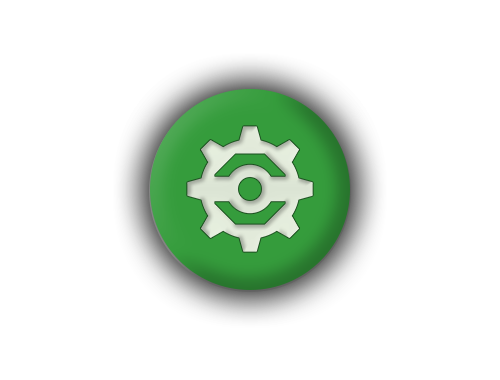
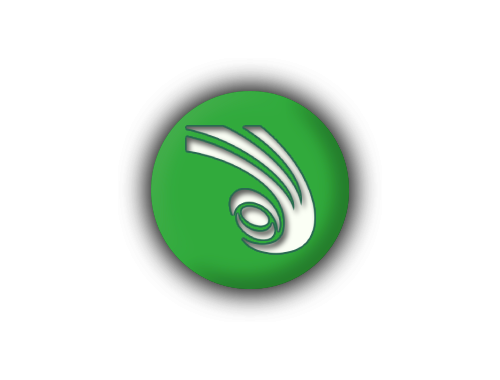
- Strong Punch, Water Dome effect

diff --git a/EatYourBeetSVG/src/main/java/eatyourbeets/resources/common/CommonImages.java b/EatYourBeetSVG/src/main/java/eatyourbeets/resources/common/CommonImages.java
@@ -52,6 +52,7 @@ public class CommonImages
         public final TextureCache Intellect             = new TextureCache("images/eyb/cardui/core/Intellect.png");
         public final TextureCache Force                 = new TextureCache("images/eyb/cardui/core/Force.png");
         public final TextureCache Agility               = new TextureCache("images/eyb/cardui/core/Agility.png");
+        public final TextureCache Willpower             = new TextureCache("images/eyb/cardui/core/Willpower.png");
     }
 
     public static class AffinityIcons
@@ -60,6 +61,7 @@ public class CommonImages
         public final TextureCache Green                 = new TextureCache("images/eyb/cardui/affinities/Green.png", true);
         public final TextureCache Red                   = new TextureCache("images/eyb/cardui/affinities/Red.png", true);
         public final TextureCache Blue                  = new TextureCache("images/eyb/cardui/affinities/Blue.png", true);
+        public final TextureCache Orange                = new TextureCache("images/eyb/cardui/affinities/Orange.png", true);
         public final TextureCache Light                 = new TextureCache("images/eyb/cardui/affinities/Light.png", true);
         public final TextureCache Dark                  = new TextureCache("images/eyb/cardui/affinities/Dark.png", true);
         public final TextureCache Star                  = new TextureCache("images/eyb/cardui/affinities/Star.png", true);
@@ -80,8 +82,13 @@ public class CommonImages
         public final TextureCache Innate                  = new TextureCache("images/eyb/cardui/badges/Innate.png");
         public final TextureCache Delayed                 = new TextureCache("images/eyb/cardui/badges/Delayed.png");
         public final TextureCache Retain                  = new TextureCache("images/eyb/cardui/badges/Retain.png");
-        public final TextureCache RetainOnce              = new TextureCache("images/eyb/cardui/badges/RetainOnce.png");
+        public final TextureCache RetainInfinite          = new TextureCache("images/eyb/cardui/badges/RetainInfinite.png");
         public final TextureCache Haste                   = new TextureCache("images/eyb/cardui/badges/Haste.png");
+        public final TextureCache HasteInfinite           = new TextureCache("images/eyb/cardui/badges/HasteInfinite.png");
+        public final TextureCache Autoplay                = new TextureCache("images/eyb/cardui/badges/Autoplay.png");
+        public final TextureCache Loyal                   = new TextureCache("images/eyb/cardui/badges/Loyal.png");
+        public final TextureCache Afterlife               = new TextureCache("images/eyb/cardui/badges/Afterlife.png");
+        public final TextureCache Harmonic                = new TextureCache("images/eyb/cardui/badges/Harmonic.png");
     }
 
     public static class Tooltips
@@ -94,10 +101,12 @@ public class CommonImages
         public final TextureCache Aether           = new TextureCache("images/eyb/cardui/tooltips/Aether.png");
         public final TextureCache Frost            = new TextureCache("images/eyb/cardui/tooltips/Frost.png");
         public final TextureCache Earth            = new TextureCache("images/eyb/cardui/tooltips/Earth.png");
+        public final TextureCache Water            = new TextureCache("images/eyb/cardui/tooltips/Water.png");
         public final TextureCache RandomOrb        = new TextureCache("images/eyb/cardui/tooltips/RandomOrb.png");
         public final TextureCache Fire             = new TextureCache("images/eyb/cardui/tooltips/Fire.png");
         public final TextureCache Chaos            = new TextureCache("images/eyb/cardui/tooltips/Chaos.png");
         public final TextureCache Gold             = new TextureCache("images/eyb/cardui/tooltips/Gold.png");
+        public final TextureCache Regeneration     = new TextureCache("images/eyb/cardui/tooltips/Regeneration.png");
     }
 
     public static class Events
@@ -154,6 +163,8 @@ public class CommonImages
         public final TextureCache Darkness         = new TextureCache("images/animator/effects/Darkness.png");
         public final TextureCache FireBurst        = new TextureCache("images/animator/effects/FireBurst.png");
         public final TextureCache Psi              = new TextureCache("images/animator/effects/Psi.png");
+        public final TextureCache Punch            = new TextureCache("images/animator/effects/Punch.png");
         public final TextureCache Water            = new TextureCache("images/animator/effects/Water.png");
+        public final TextureCache WaterDome        = new TextureCache("images/animator/effects/WaterDome.png");
     }
 }

diff --git a/EatYourBeetSVG/src/main/java/eatyourbeets/effects/vfx/StrongPunchEffect.java b/EatYourBeetSVG/src/main/java/eatyourbeets/effects/vfx/StrongPunchEffect.java
@@ -1,0 +1,72 @@
+package eatyourbeets.effects.vfx;
+
+import com.badlogic.gdx.graphics.Color;
+import com.badlogic.gdx.graphics.g2d.SpriteBatch;
+import com.badlogic.gdx.math.Interpolation;
+import eatyourbeets.effects.EYBEffect;
+import eatyourbeets.effects.SFX;
+import eatyourbeets.effects.VFX;
+import eatyourbeets.ui.TextureCache;
+import eatyourbeets.utilities.GameEffects;
+
+public class StrongPunchEffect extends EYBEffect
+{
+    public static final TextureCache image = IMAGES.Punch;
+
+    protected float x;
+    protected float y;
+    protected float rotationSpeed = 600f;
+    protected float vfxTimer = 1;
+    protected float baseScale;
+    protected boolean triggered = false;
+
+    public StrongPunchEffect(float x, float y, float baseScale)
+    {
+        super(1f);
+
+        this.x = x;
+        this.y = y;
+        this.scale = this.baseScale = Math.max(baseScale,1);
+        this.rotation = 300f;
+        this.color = Color.WHITE.cpy();
+    }
+
+    @Override
+    protected void UpdateInternal(float deltaTime)
+    {
+
+        if ((1f - duration) < 0.1f)
+        {
+            color.a = Interpolation.fade.apply(0.1f, 1f, (1f - duration) * 7f);
+        }
+        else
+        {
+            color.a = Interpolation.pow2Out.apply(0.1f, 1f, duration);
+        }
+
+        vfxTimer -= deltaTime / duration;
+        if (vfxTimer < 0f)
+        {
+            if (!triggered) {
+                GameEffects.Queue.Add(VFX.Whack(x, y).SetColor(Color.SCARLET)).SetScale(2);
+                SFX.Play(SFX.ANIMATOR_PUNCH,0.7f,0.8f);
+                triggered = true;
+            }
+            else {
+                x += Interpolation.sine.apply(-25f, 25f, this.duration * 50);
+                y += Interpolation.sine.apply(-25f, 25f, this.duration * 50);
+            }
+        }
+        else {
+            this.rotation += rotationSpeed * deltaTime / duration;
+            this.scale = Interpolation.linear.apply(1, this.baseScale, duration);
+        }
+
+        super.UpdateInternal(deltaTime);
+    }
+
+    public void render(SpriteBatch sb)
+    {
+        RenderImage(sb, image.Texture(), x, y, false, false);
+    }
+}

diff --git a/EatYourBeetSVG/src/main/java/eatyourbeets/effects/SFX.java b/EatYourBeetSVG/src/main/java/eatyourbeets/effects/SFX.java
@@ -25,6 +25,8 @@ public class SFX
         BaseMod.addAudio(ANIMATOR_DARKNESS, "audio/animator/sound/DARKNESS.ogg");
         BaseMod.addAudio(ANIMATOR_GUNSHOT, "audio/animator/sound/FIRING_BULLET.ogg");
         BaseMod.addAudio(ANIMATOR_PSI, "audio/animator/sound/PSI.ogg");
+        BaseMod.addAudio(ANIMATOR_PUNCH, "audio/animator/sound/PUNCH.ogg");
+        BaseMod.addAudio(ANIMATOR_STAR, "audio/animator/sound/STAR.ogg");
         BaseMod.addAudio(ANIMATOR_ORB_EARTH_EVOKE, "audio/animator/sound/ORB_EARTH_EVOKE.ogg");
         BaseMod.addAudio(ANIMATOR_ORB_EARTH_CHANNEL, "audio/animator/sound/ORB_EARTH_CHANNEL.ogg");
         BaseMod.addAudio(ANIMATOR_ORB_WATER_EVOKE, "audio/animator/sound/ORB_WATER_EVOKE.ogg");
@@ -32,6 +34,7 @@ public class SFX
         BaseMod.addAudio(ANIMATOR_KIRA_POWER, "audio/animator/sound/KIRA_POWER.ogg");
         BaseMod.addAudio(ANIMATOR_MEGUMIN_CHARGE, "audio/animator/sound/MEGUMIN_CHARGE.ogg");
         BaseMod.addAudio(ANIMATOR_THE_ULTIMATE_CRYSTAL, "audio/animator/sound/THE_ULTIMATE_CRYSTAL.ogg");
+        BaseMod.addAudio(ANIMATOR_WATER_DOME, "audio/animator/sound/WATER_DOME.ogg");
 
         MainMusicPatches.SetFolderPath("audio/animator/music/");
         MainMusicPatches.AddMusic(ANIMATOR_THE_CREATURE);
@@ -51,6 +54,8 @@ public class SFX
     public static final String ANIMATOR_ORB_WATER_CHANNEL = "ANIMATOR_ORB_WATER_CHANNEL";
     public static final String ANIMATOR_ORB_WATER_EVOKE = "ANIMATOR_ORB_WATER_EVOKE";
     public static final String ANIMATOR_PSI = "ANIMATOR_PSI";
+    public static final String ANIMATOR_PUNCH = "ANIMATOR_PUNCH";
+    public static final String ANIMATOR_STAR = "ANIMATOR_STAR";
     public static final String ANIMATOR_THE_ULTIMATE_CRYSTAL = "ANIMATOR_THE_ULTIMATE_CRYSTAL";
     public static final String ANIMATOR_THE_CREATURE = "THE_CREATURE.ogg";
     public static final String ANIMATOR_THE_HAUNT = "THE_HAUNT.ogg";

diff --git a/EatYourBeetSVG/src/main/java/eatyourbeets/resources/GR.java b/EatYourBeetSVG/src/main/java/eatyourbeets/resources/GR.java
@@ -174,7 +174,8 @@ public class GR
 
     public static boolean IsTranslationSupported(Settings.GameLanguage language)
     {
-        return language == Settings.GameLanguage.RUS || language == Settings.GameLanguage.ZHS;// || language == Settings.GameLanguage.ZHT;
+        //This should be set only for beta branches.  Do not merge this into master.
+        return false;//language == Settings.GameLanguage.RUS; // language == Settings.GameLanguage.ZHS || language == Settings.GameLanguage.ZHT;
     }
 
     public static Texture GetTexture(String path)
@@ -459,9 +460,12 @@ public class GR
             @SpireEnum public static AbstractCard.CardTags PURGE;
             @SpireEnum public static AbstractCard.CardTags DELAYED;
             @SpireEnum public static AbstractCard.CardTags HASTE;
+            @SpireEnum public static AbstractCard.CardTags HASTE_INFINITE;
             @SpireEnum public static AbstractCard.CardTags PURGING;
             @SpireEnum public static AbstractCard.CardTags LOYAL;
+            @SpireEnum public static AbstractCard.CardTags AUTOPLAY;
             @SpireEnum public static AbstractCard.CardTags IMPROVED_BASIC_CARD;
+            @SpireEnum public static AbstractCard.CardTags HARMONIC;
         }
 
         public static class AttackEffect
@@ -474,7 +478,9 @@ public class GR
             @SpireEnum public static AbstractGameAction.AttackEffect SHIELD_FROST;
             @SpireEnum public static AbstractGameAction.AttackEffect DAGGER;
             @SpireEnum public static AbstractGameAction.AttackEffect SPEAR;
+            @SpireEnum public static AbstractGameAction.AttackEffect PUNCH;
             @SpireEnum public static AbstractGameAction.AttackEffect DARK;
+            @SpireEnum public static AbstractGameAction.AttackEffect WATER;
         }
     }
 }

diff --git a/EatYourBeetSVG/src/main/java/eatyourbeets/effects/VFX.java b/EatYourBeetSVG/src/main/java/eatyourbeets/effects/VFX.java
@@ -275,6 +275,16 @@ public class VFX
         return (SnowballTriggerEffect) new SnowballTriggerEffect(cX, cY, 8).SetColor(Color.SKY.cpy());
     }
 
+    public static StrongPunchEffect StrongPunch(Hitbox target)
+    {
+        return StrongPunch(target.cX, target.cY);
+    }
+
+    public static StrongPunchEffect StrongPunch(float x, float y)
+    {
+        return (StrongPunchEffect) new StrongPunchEffect(x, y, 2).SetDuration(1f,true);
+    }
+
     public static ThrowDaggerEffect2 ThrowDagger(Hitbox target, float variance)
     {
         return new ThrowDaggerEffect2(RandomX(target, variance), RandomY(target, variance));
@@ -322,6 +332,11 @@ public class VFX
                 .Edit(p -> p.SetRotation(MathUtils.random(100f,800f)).SetTargetRotation(36000).SetSpeed(0f, 0f, MathUtils.random(500f, 750f)).SetTargetScale(1f,5f))
                 .SetTranslucent(MathUtils.random(0.7f,1f))
                 .SetDuration(1.3f,false);
+    }
+
+    public static GenericAnimationEffect WaterDome(float cX, float cY)
+    {
+        return new GenericAnimationEffect(EYBEffect.IMAGES.WaterDome.Texture(), cX, cY, 12, 5, 0.015f).SetScale(2f);
     }
 
     public static GenericAnimationEffect Whack(Hitbox target, float spread)

diff --git a/EatYourBeetSVG/src/main/java/eatyourbeets/effects/AttackEffects.java b/EatYourBeetSVG/src/main/java/eatyourbeets/effects/AttackEffects.java
@@ -45,7 +45,9 @@ public class AttackEffects
    public static final AttackEffect GUNSHOT = GR.Enums.AttackEffect.GUNSHOT;
    public static final AttackEffect DAGGER = GR.Enums.AttackEffect.DAGGER;
    public static final AttackEffect SPEAR = GR.Enums.AttackEffect.SPEAR;
+   public static final AttackEffect PUNCH = GR.Enums.AttackEffect.PUNCH;
    public static final AttackEffect DARK = GR.Enums.AttackEffect.DARK;
+   public static final AttackEffect WATER = GR.Enums.AttackEffect.WATER;
 
    public static EYBEffect GetVFX(AttackEffect effect, AbstractCreature source, float t_cX, float t_cY)
    {
@@ -166,9 +168,17 @@ public class AttackEffects
               .SetVFX2(VFX::Pierce)
               .SetSFX(SFX.ANIMATOR_SPEAR_1, SFX.ANIMATOR_SPEAR_2);
 
+      Add(melee, PUNCH)
+              .SetVFX(VFX::StrongPunch)
+              .SetSFX(SFX.RAGE);
+
       Add(magic, DARK)
               .SetVFX(VFX::Dark)
               .SetSFX(SFX.ORB_DARK_CHANNEL);
+
+      Add(magic, WATER)
+              .SetVFX(VFX::Water)
+              .SetSFX(SFX.ANIMATOR_ORB_WATER_EVOKE);
    }
 
    private static AttackEffectData Add(ArrayList<AttackEffect> category, AttackEffect effect)

diff --git a/EatYourBeetSVG/src/main/java/eatyourbeets/effects/vfx/StarParticleEffect.java b/EatYourBeetSVG/src/main/java/eatyourbeets/effects/vfx/StarParticleEffect.java
@@ -16,6 +16,7 @@ public class StarParticleEffect extends EYBEffect
 
     protected float x;
     protected float y;
+    protected float rotationSpeed;
     protected float alpha;
     protected boolean flipX;
     protected Texture image;
@@ -39,6 +40,7 @@ public class StarParticleEffect extends EYBEffect
         this.scale = Random(0.05f, 0.3f);
         this.flipX = RandomBoolean();
         this.rotation = Random(-10f, 10f);
+        this.rotationSpeed = Random(-10f, 10f);
     }
 
     @Override
@@ -46,6 +48,7 @@ public class StarParticleEffect extends EYBEffect
     {
         super.UpdateInternal(deltaTime);
 
+        this.rotation += this.rotationSpeed;
         final float halfDuration = startingDuration * 0.5f;
         if (this.duration < halfDuration)
         {

diff --git a/EatYourBeetSVG/src/main/java/eatyourbeets/effects/vfx/ShootingStarsEffect.java b/EatYourBeetSVG/src/main/java/eatyourbeets/effects/vfx/ShootingStarsEffect.java
@@ -11,9 +11,9 @@ public class ShootingStarsEffect extends EYBEffect
     protected float spreadX;
     protected float spreadY;
     protected float vfxTimer;
-    protected float vfxFrequency = 0.025f;
-    protected float horizontalSpeedMin = 1800;
-    protected float horizontalSpeedMax = 2300;
+    protected float vfxFrequency = 0.023f;
+    protected float horizontalSpeedMin = 2150;
+    protected float horizontalSpeedMax = 2650;
     protected float verticalSpeedMin;
     protected float verticalSpeedMax;
     protected boolean flipHorizontally;

diff --git a/EatYourBeetSVG/src/main/java/eatyourbeets/resources/common/CommonResources.java b/EatYourBeetSVG/src/main/java/eatyourbeets/resources/common/CommonResources.java
@@ -105,6 +105,7 @@ public class CommonResources extends AbstractResources
         AddPowerTooltip("[F]", "Force", new ForcePower());
         AddPowerTooltip("[A]", "Agility", new AgilityPower());
         AddPowerTooltip("[I]", "Intellect", new IntellectPower());
+        AddPowerTooltip("[W]", "Willpower", new WillpowerPower());
         AddPowerTooltip("[B]", "Blessing", new BlessingPower());
         AddPowerTooltip("[C]", "Corruption", new CorruptionPower());
 //        AddEnergyTooltip("[R]", AbstractCard.orb_red);

diff --git a/EatYourBeetSVG/src/main/java/eatyourbeets/effects/vfx/StarEffect.java b/EatYourBeetSVG/src/main/java/eatyourbeets/effects/vfx/StarEffect.java
@@ -46,7 +46,7 @@ public class StarEffect extends EYBEffect
     public StarEffect SetRandomColor()
     {
         RGB.clear();
-        RGB.add(0f);
+        RGB.add(0.4f);
         RGB.add(1f);
         RGB.add(Random(0.5f, 1f));
 
